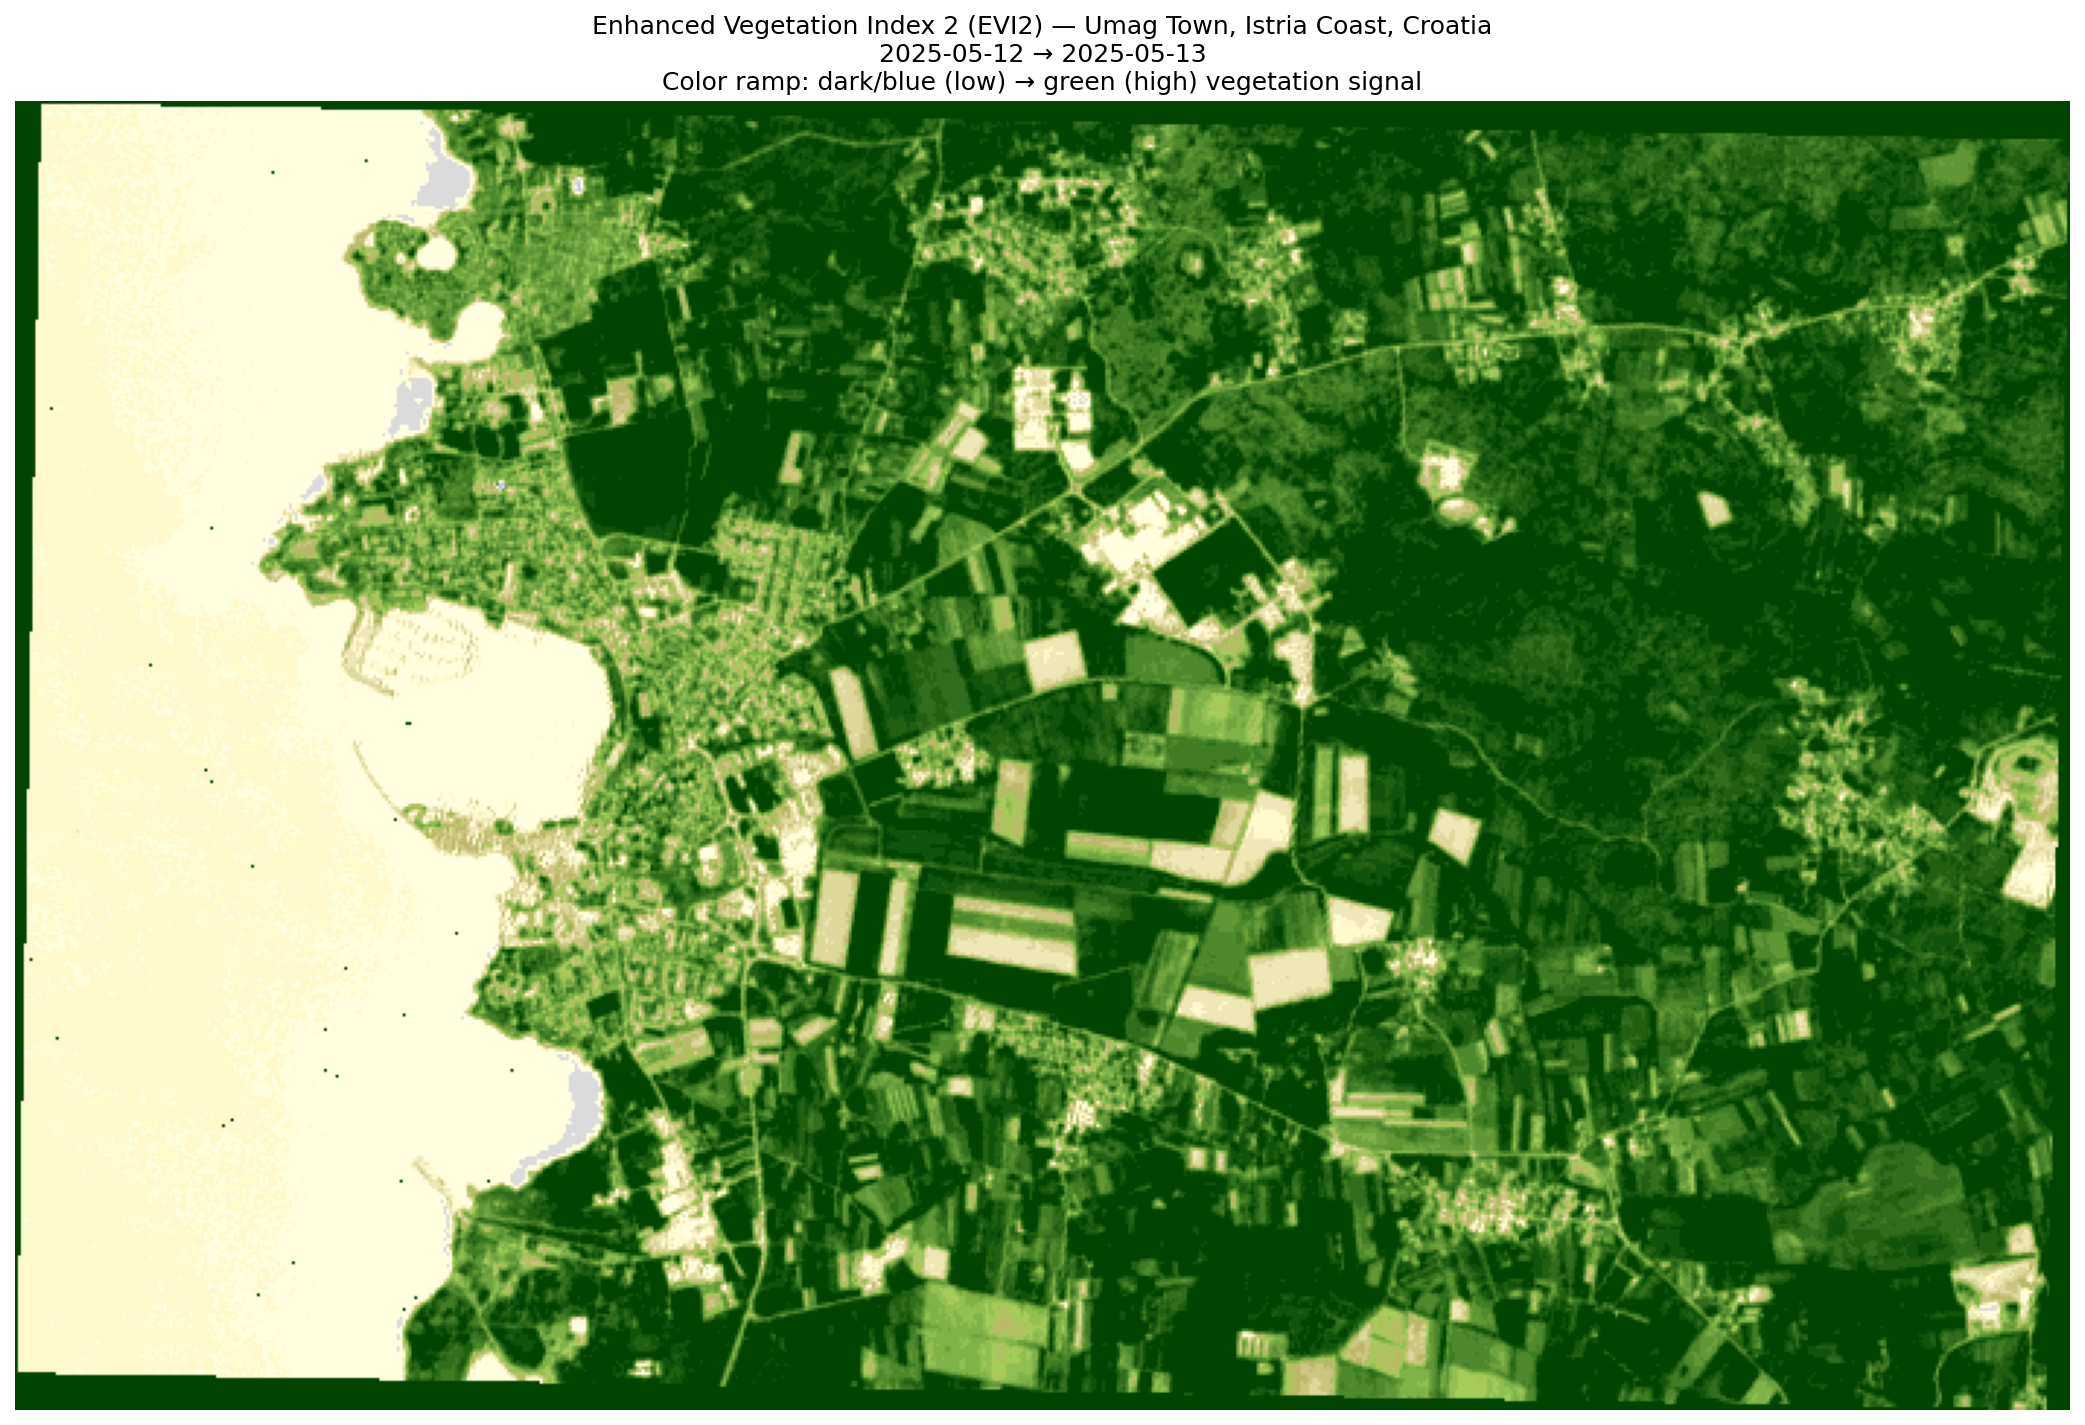
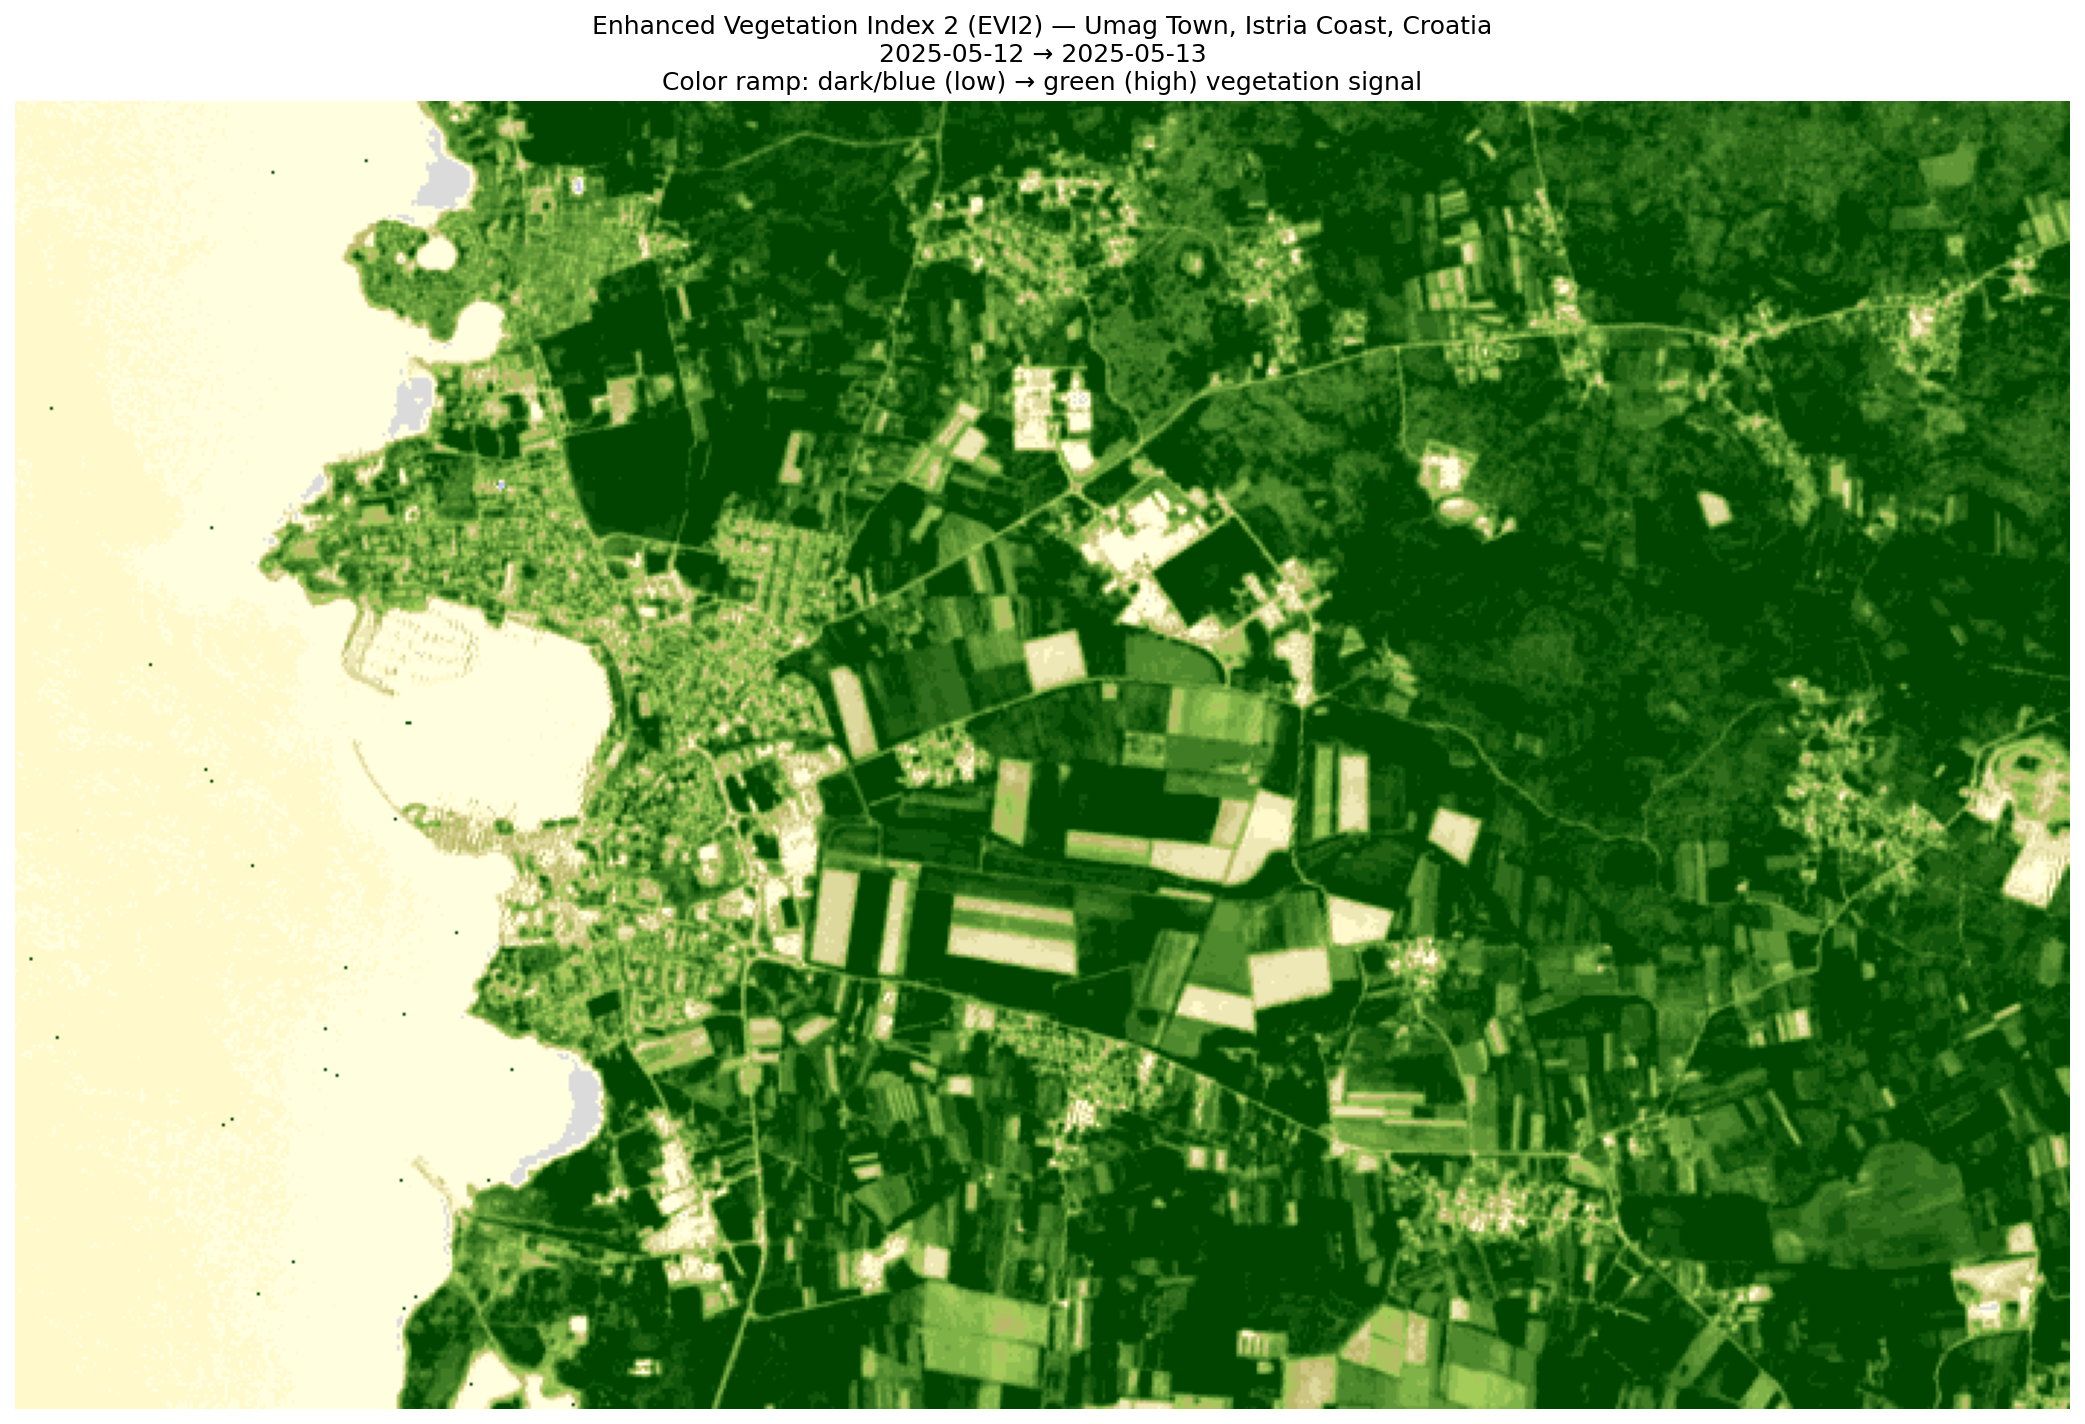
Fix: adds cloud cover filter and removes hardcoded parameter inputs in EVI

diff --git a/notebooks/sentinel/sentinel-2/advanced_spectral_processing/enhanced_vegetation_index.params.py b/notebooks/sentinel/sentinel-2/advanced_spectral_processing/enhanced_vegetation_index.params.py
@@ -18,6 +18,7 @@ def get_parameters():
         - time: Temporal range as Parameter object
         - bands: Required Sentinel-2 bands as Parameter object
         - collection: Data collection identifier as Parameter object
+        - cloud_cover: Maximum cloud cover percentage as Parameter object
     """
 
     # Bands required for the EVI2 algorithm: B08 (NIR), B04 (Red)
@@ -29,11 +30,13 @@ def get_parameters():
             "bounding_box": Parameter(
                 "bounding_box",
                 description="Spatial extent for Umag Town, Istria Coast, Croatia",
+                schema={"type": "object", "subtype": "bounding-box"},
                 default={"west": 13.4986, "south": 45.4166, "east": 13.5876, "north": 45.4558},
             ),
             "time": Parameter(
                 "time",
                 description="Temporal range for data acquisition",
+                schema={"type": "array", "subtype": "temporal-interval"},
                 default=["2025-05-12", "2025-05-13"],
             ),
             "bands": Parameter(
@@ -45,6 +48,12 @@ def get_parameters():
                 "collection",
                 description="Data collection identifier",
                 default="SENTINEL2_L2A",
+            ),
+            "cloud_cover": Parameter(
+                "cloud_cover",
+                description="Maximum cloud cover percentage",
+                schema={"type": "number"},
+                default=30,
             ),
         },
     }
